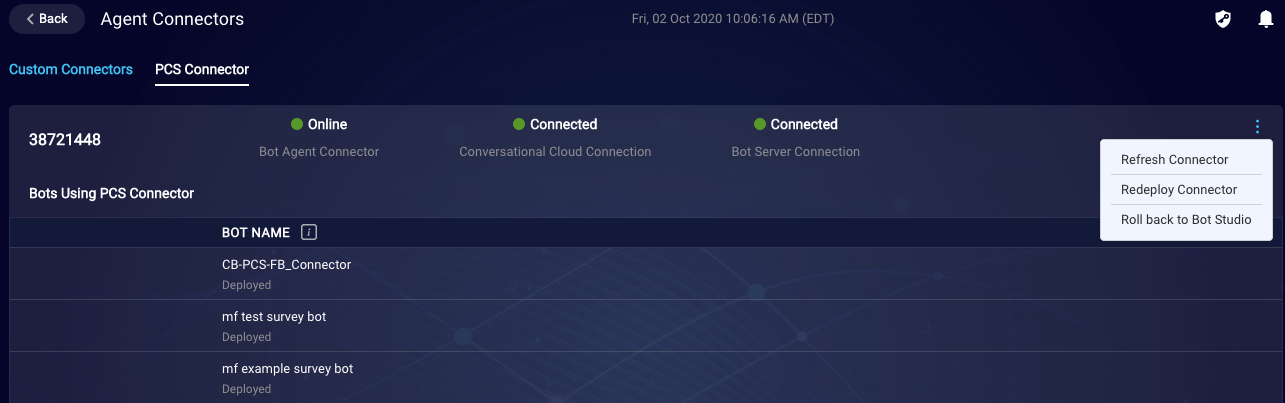
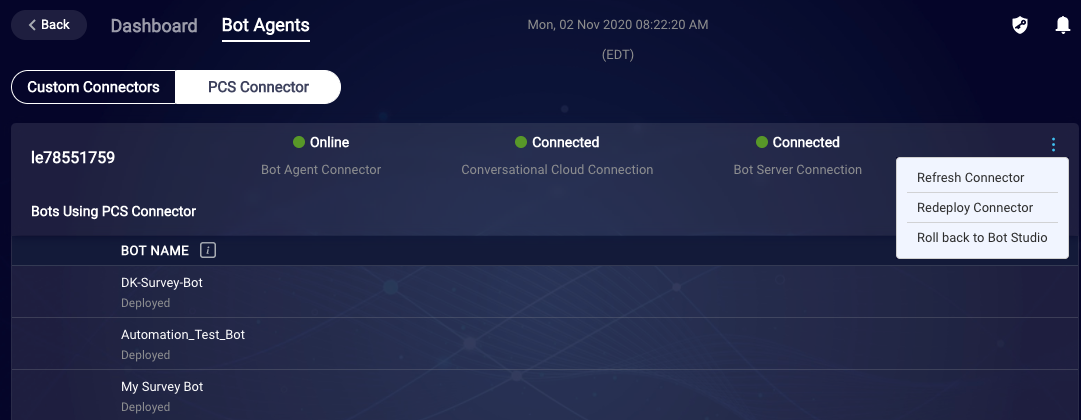
Update doc to reflect Bots Status enhancements

diff --git a/pages/documents/Bots & Automation/PostConversationSurvey/MigratingToConversationBuilder.md b/pages/documents/Bots & Automation/PostConversationSurvey/MigratingToConversationBuilder.md
@@ -54,12 +54,12 @@ If you currently use Bot Studio to trigger surveys, you must *manually switch* t
 **To migrate to Conversation Builder**
  
 1. Access the Bots Status application as described [here](https://developers.liveperson.com/bots-status-overview.html#access-bots-status) in the Developer Center.
-2. Click the **PCS Connector** tab.
+2. Click **Bot Agents** in the upper-left corner, and then click the **PCS Connector** tab.
 3. Click the 3-dot icon beside the agent connector, and select **Migrate to Conversation Builder**.
  
     A confirmation message appears to indicate that the account has been migrated to Conversation Builder. Subsequently, the page is refreshed. You should see each survey bot listed individually with a "Deployed" indicator.
  
-     <img style="width:1000px" src="img/surveyBot_monitoring5.png">
+     <img style="width:800px" src="img/surveyBot_monitoring5.png">
  
 ### Troubleshooting - Refresh the survey bot connector
  
@@ -68,7 +68,7 @@ If you've just migrated from Bot Studio to Conversation Builder, but things don'
 **To refresh the survey bot connector**
  
 1. Access the Bots Status application as described [here](https://developers.liveperson.com/bots-status-overview.html#access-bots-status) in the Developer Center.
-2. Click the **PCS Connector** tab.
+2. Click **Bot Agents** in the upper-left corner, and then click the **PCS Connector** tab.
 3. Click the 3-dot icon beside the agent connector, and select **Refresh Connector**.
  
 ### Troubleshooting - Roll back to Bot Studio
@@ -78,7 +78,7 @@ Rolling back to Bot Studio reverts your account to triggering surveys from Bot S
 **To roll back to Bot Studio**
  
 1. Access the Bots Status application as described [here](https://developers.liveperson.com/bots-status-overview.html#access-bots-status) in the Developer Center.
-2. Click the **PCS Connector** tab.
+2. Click **Bot Agents** in the upper-left corner, and then click the **PCS Connector** tab.
 3. Click the 3-dot icon beside the agent connector, and select **Roll back to Bot Studio**.
     
     A confirmation message appears to indicate that the account has been rolled back to Bot Studio. Subsequently, the page is refreshed. You should see an undeployed agent connector.
